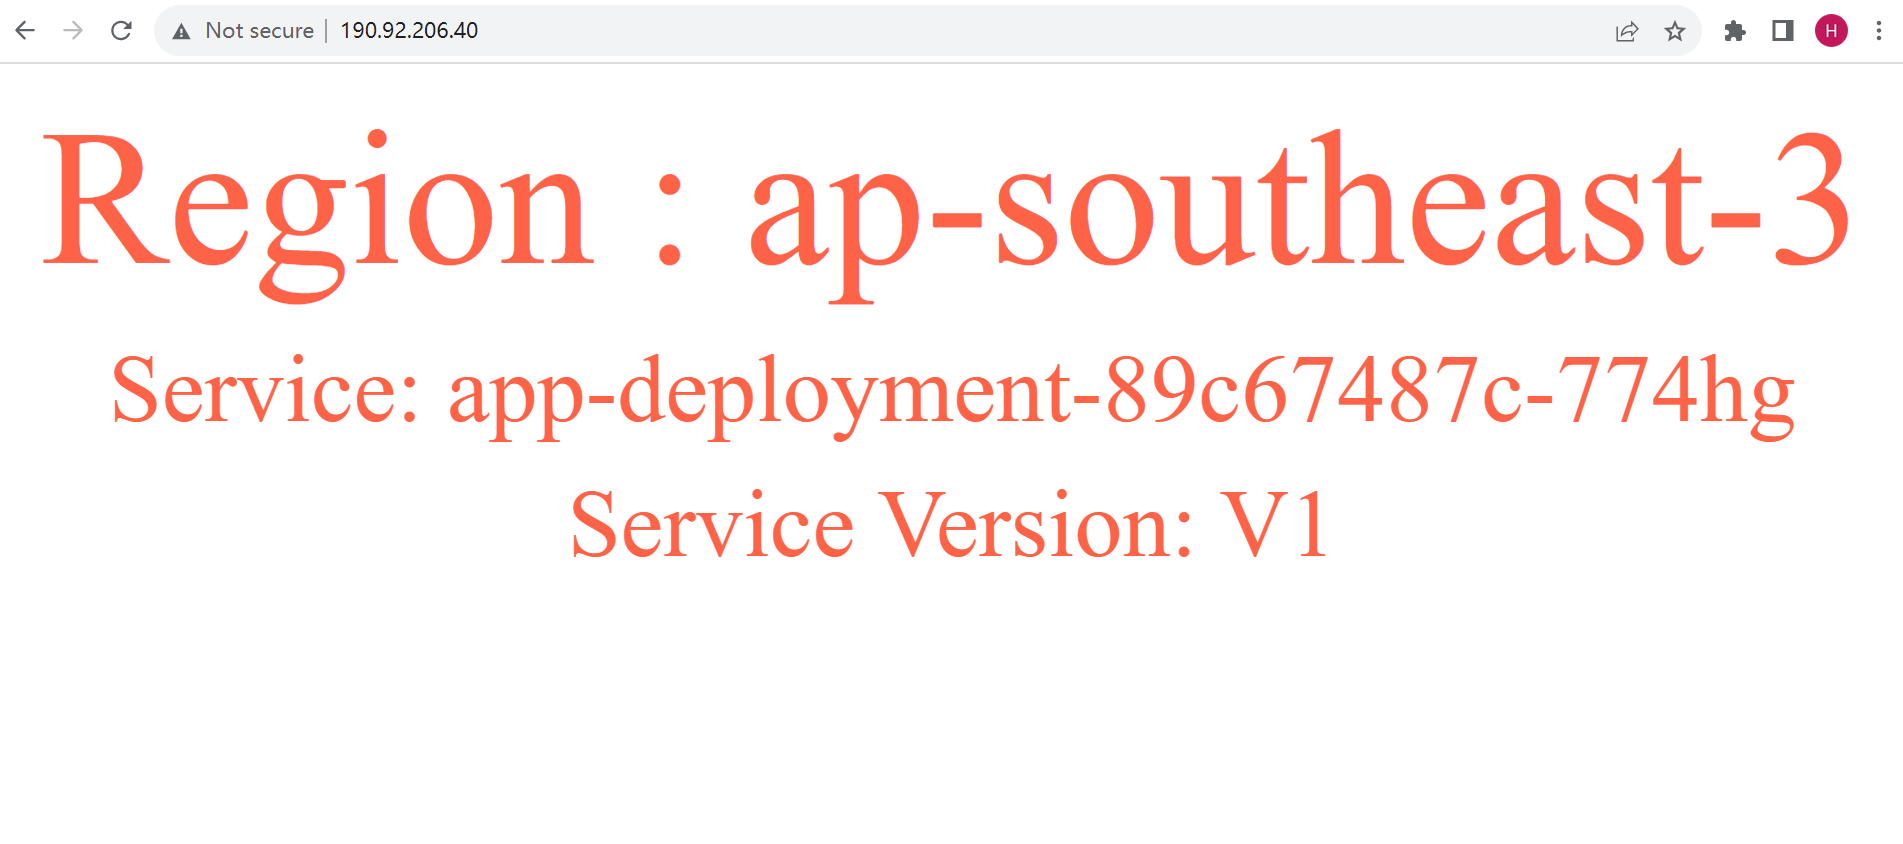
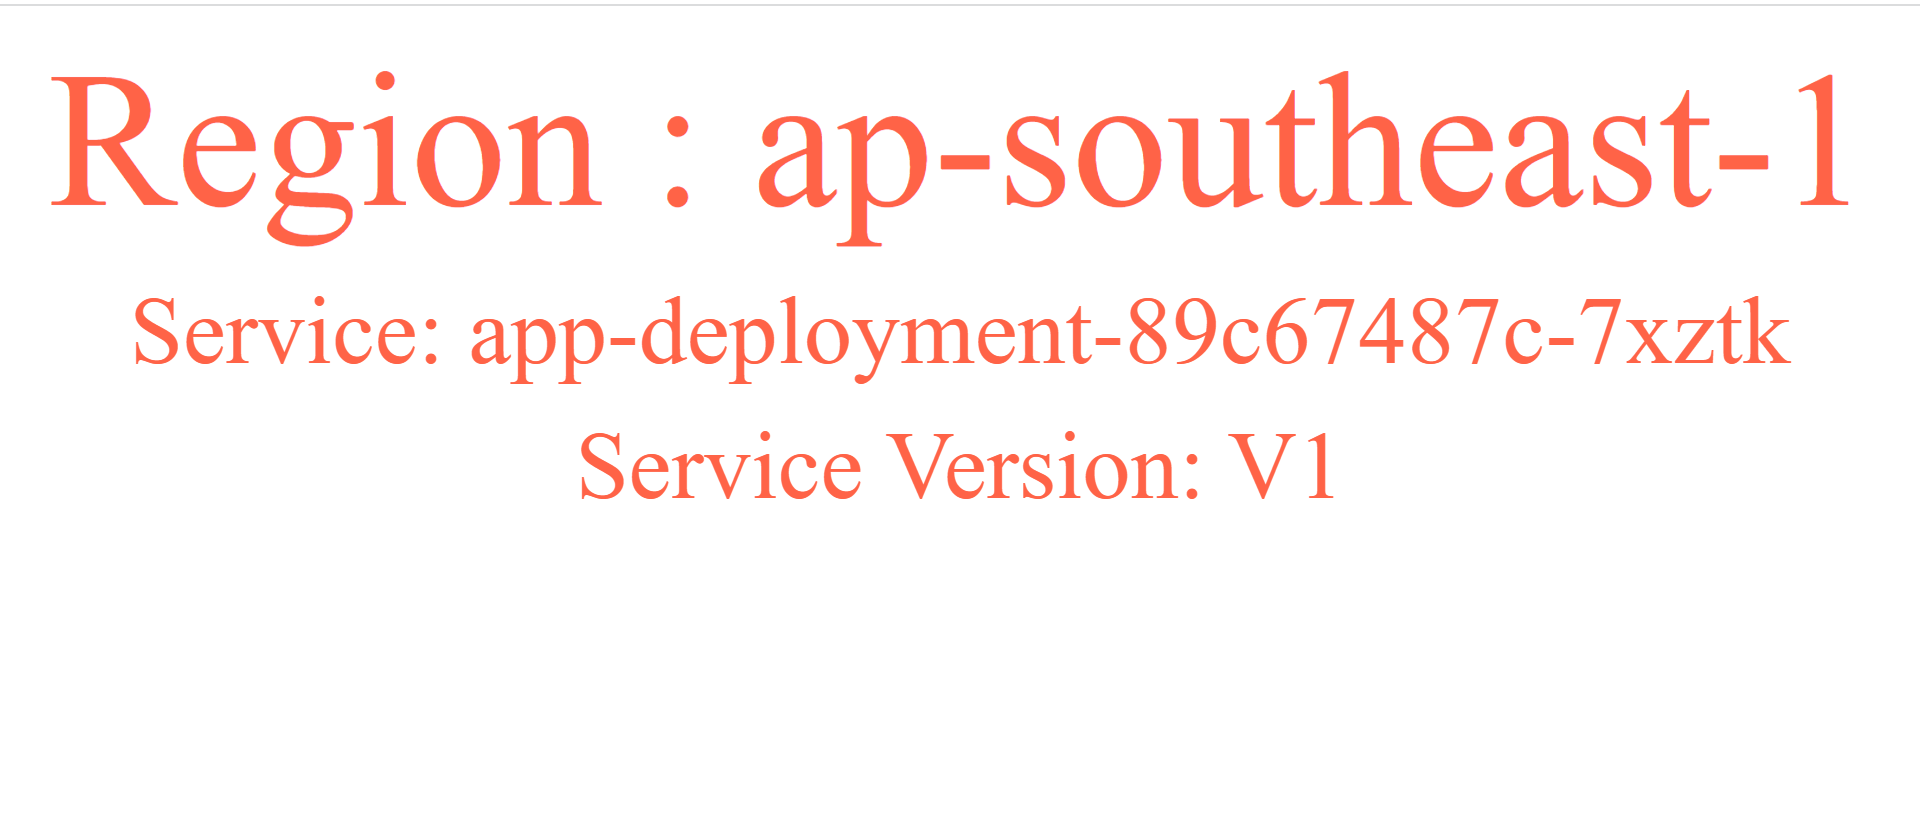
verify staus

diff --git a/README.md b/README.md
@@ -92,7 +92,7 @@ git clone https://github.com/Huawei-APAC-Professional-Services/multi-cluster-wor
 terraform init
 terraform apply
 ```
-Wait for the Terraform to finish, a total of three CCE clusters will be created in Singapore and Hong Kong region. Cluster `fleetmanager` is the cluster in which all the management tools wil be deployed. Cluster `cluster-a` and `cluster-b` are the clusters in which business application will be deployed. 
+Wait for the Terraform to finish, a total of three CCE clusters will be created in Singapore, Hong Kong and Bangkok regions. Cluster `fleetmanager` is the cluster in which all the management tools wil be deployed. Cluster `cluster-a` and `cluster-b` are the clusters in which business application will be deployed. 
 
 ## Deploy ArgoCD into `fleetmanager` cluster
 1. Change directory to `multi-cluster-workshop/kubernetes`
@@ -180,7 +180,7 @@ terraform apply
 ![AppDeploymentStatus](./images/006_argocd_deployment_status_1.png)
 
 ## Verify Application
-1. On Huawei Cloud console, Click the `Service List` and Search ```CCE```, go to `Cloud Container Engine` by Clicking the `Cloud Container Engine` under `Containers` label
+1. On Huawei Cloud console and select `Hong Kong` and `Bangkok` region respectively, Click the `Service List` and Search ```CCE```, go to `Cloud Container Engine` by Clicking the `Cloud Container Engine` under `Containers` label
 ![gotoCCE](./images/006_argocd_getingress_ip_1.png)
 
 2. On `Cloud Container Engine` page, Click `cluster-a`
@@ -191,6 +191,7 @@ terraform apply
 
 4. Open a browser tab to access the application with the ip address you got from last step, Please note only http is supported. You should be able to see the following page if the application is running appropriately.
 ![gotoclustera-2](./images/006_argocd_getingress_ip_4.png)
+![gotoclusterb-2](./images/006_argocd_getingress_ip_5.png)
 
 ## Change Application Version
 1. Go back to `CodeArts Repo` service and Select the `demo` repository
